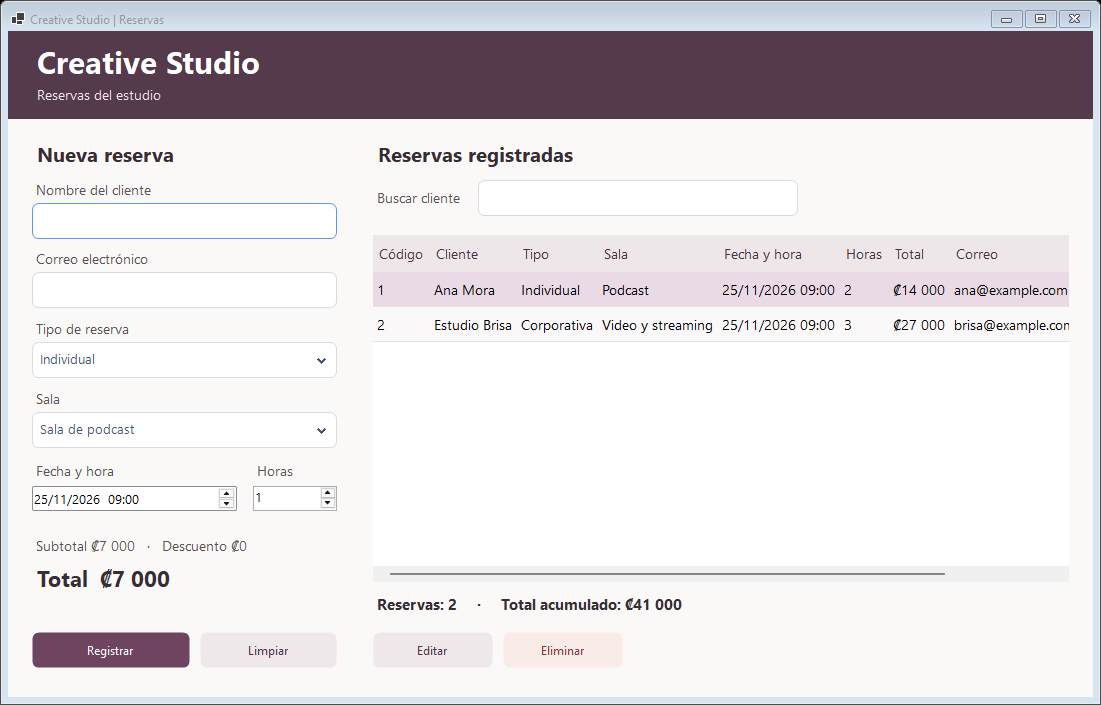
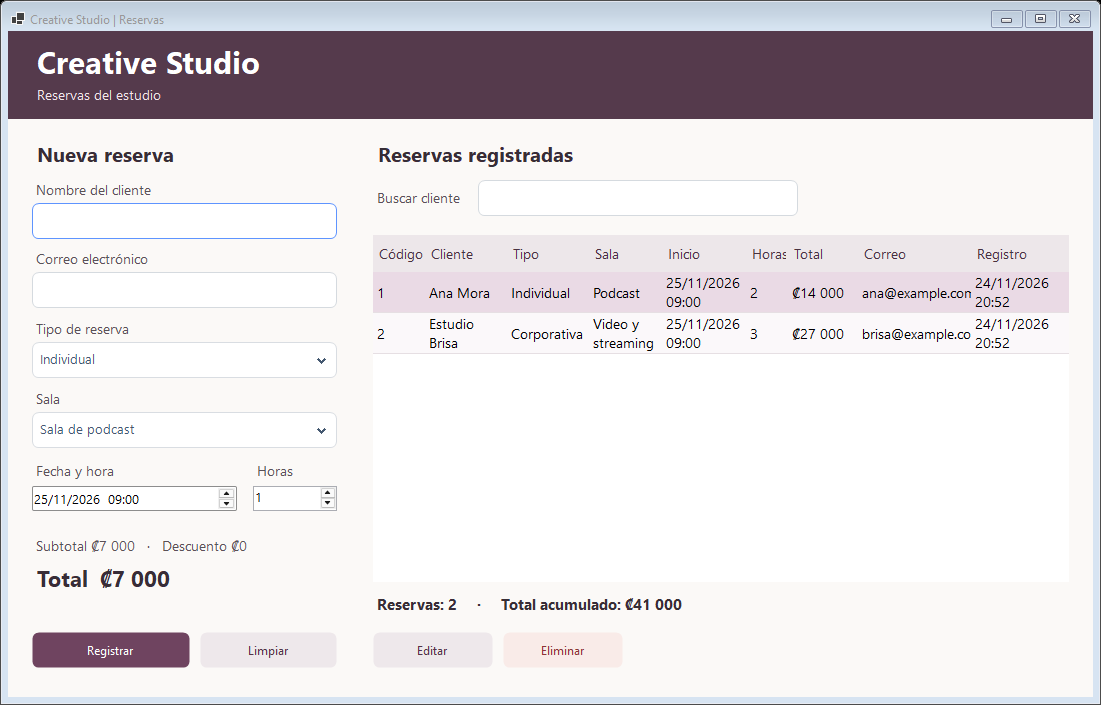
Ajusta las columnas de reservas al ancho de la tabla

diff --git a/Presentacion/FrmReservas.cs b/Presentacion/FrmReservas.cs
@@ -15,8 +15,25 @@ public partial class FrmReservas : Form
         InitializeComponent();
         cmbTipo.Items.AddRange(["Individual", "Corporativa"]);
         cmbSala.Items.AddRange(["Sala de podcast", "Sala de video y streaming"]);
-        foreach (string titulo in new[] { "Código", "Cliente", "Tipo", "Sala", "Fecha y hora", "Horas", "Total", "Correo", "Registrada el" })
-            tabla.Columns.Add(new DataGridViewTextBoxColumn { HeaderText = titulo, SortMode = DataGridViewColumnSortMode.NotSortable });
+        (string titulo, int minimo, int peso)[] columnas =
+        [
+            ("Código", 52, 55), ("Cliente", 62, 105), ("Tipo", 82, 100),
+            ("Sala", 62, 98), ("Inicio", 84, 100), ("Horas", 42, 45),
+            ("Total", 70, 75), ("Correo", 78, 145), ("Registro", 80, 125)
+        ];
+        foreach (var (titulo, minimo, peso) in columnas)
+        {
+            tabla.Columns.Add(new DataGridViewTextBoxColumn
+            {
+                HeaderText = titulo,
+                MinimumWidth = minimo,
+                Width = minimo,
+                AutoSizeMode = titulo is "Código" or "Tipo" or "Horas" or "Total"
+                    ? DataGridViewAutoSizeColumnMode.None : DataGridViewAutoSizeColumnMode.Fill,
+                FillWeight = peso,
+                SortMode = DataGridViewColumnSortMode.NotSortable
+            });
+        }
 
         cmbTipo.SelectedIndexChanged += (_, _) => Cotizar();
         cmbSala.SelectedIndexChanged += (_, _) => Cotizar();

diff --git a/Presentacion/FrmReservas.Designer.cs b/Presentacion/FrmReservas.Designer.cs
@@ -269,7 +269,9 @@ partial class FrmReservas
         tabla.RowHeadersVisible = false;
         tabla.MultiSelect = false;
         tabla.SelectionMode = DataGridViewSelectionMode.FullRowSelect;
-        tabla.AutoSizeColumnsMode = DataGridViewAutoSizeColumnsMode.DisplayedCells;
+        tabla.AutoSizeColumnsMode = DataGridViewAutoSizeColumnsMode.Fill;
+        tabla.AutoSizeRowsMode = DataGridViewAutoSizeRowsMode.AllCellsExceptHeaders;
+        tabla.DefaultCellStyle.WrapMode = DataGridViewTriState.True;
         tabla.AutoGenerateColumns = false;
         tabla.EnableHeadersVisualStyles = false;
         tabla.ColumnHeadersHeight = 37;
